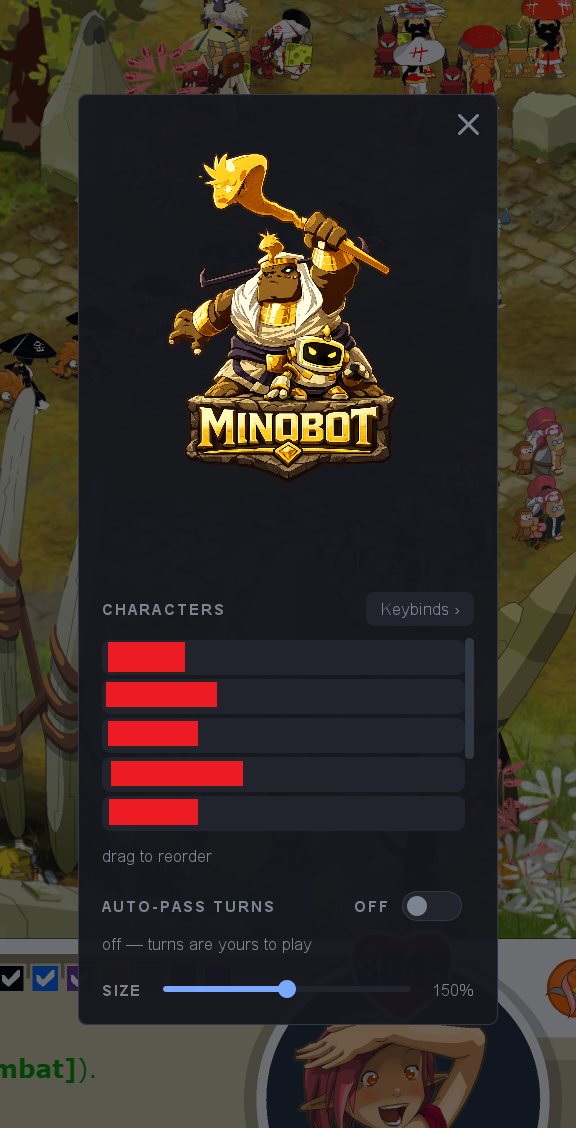
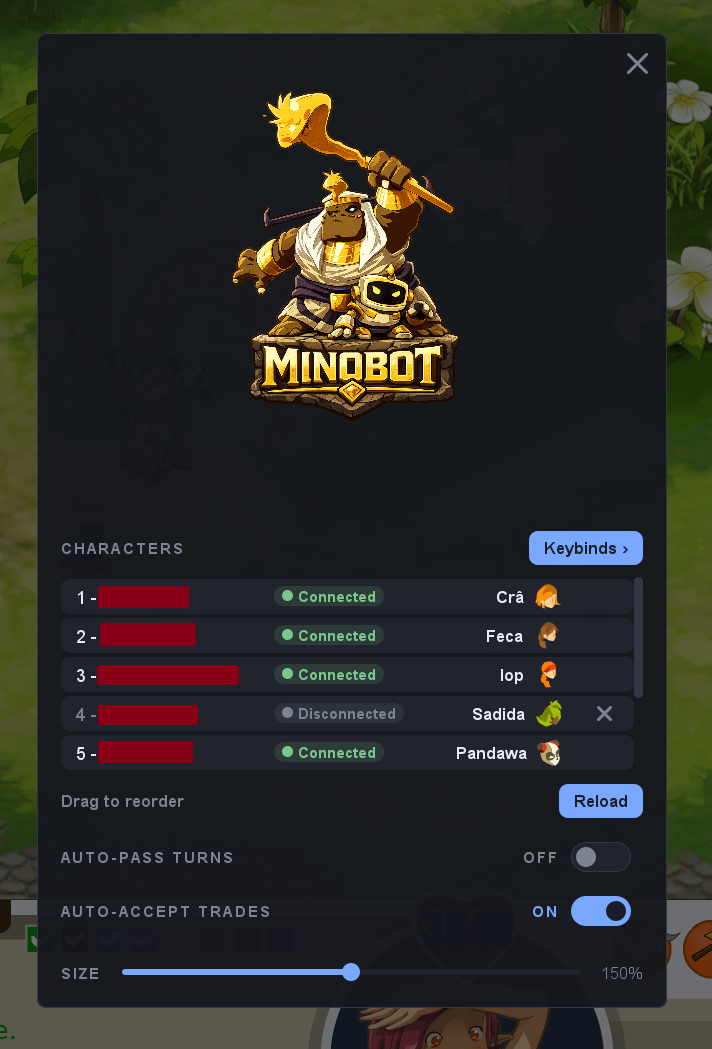
chore: update readme

diff --git a/src/main/java/fr/minobot/ui/overlay/characters/CharacterRow.java b/src/main/java/fr/minobot/ui/overlay/characters/CharacterRow.java
@@ -140,7 +140,7 @@ public final class CharacterRow extends DefaultListCellRenderer {
 
     /**
      * The class in its column, right-aligned against the column's edge: the icon and the class's label
-     * once one is pinned, a muted {@code choose class…} until then.
+     * once one is pinned, a muted {@code pick class…} until then.
      */
     private void paintClassCell(Graphics2D canvas, RowColumns columns) {
         final var height = getHeight();

diff --git a/README.md b/README.md
@@ -75,8 +75,7 @@ Minobot reconnaît que la demande vient d'**un de vos comptes** grâce au nom é
 Si c'est un **autre joueur** qui vous propose un échange, rien n'est accepté à votre place : Minobot se
 contente de **basculer sur la fenêtre concernée**, comme d'habitude, et vous décidez.
 
-**Cette fonction est activée par défaut.** Vous pouvez la couper depuis l'overlay le temps de la session ;
-pour la désactiver durablement, mettez `"auto_accept_trade": false` dans votre `config.json`.
+**Cette fonction est activée par défaut.** Vous pouvez la couper depuis l'overlay le temps de la session.
 
 ### Passer les tours automatiquement — interrupteur dans l'overlay
 
@@ -100,6 +99,25 @@ redémarrage** (comme tous les réglages faits dans l'overlay).
 2. Lancez **`Minobot.exe`**.
 3. C'est tout. Il n'y a rien à installer, pas même Java : tout voyage dans le dossier.
 
+**Important** : Minobot se basant sur le système de notifications Windows, il est **impératif** de les
+   activer.
+1. Aller dans les paramètres Windows et **activer les notifications**.
+
+![windows_settings1.png](assets/windows_settings1.png)
+
+2. Si elles vous dérangent,  **vous pouvez les rendre silencieuses**, en cochant
+   `Masquer le contenu...`
+   
+   Minobot fonctionnera tout pareil.
+
+![windows_settings2.png](assets/windows_settings2.png)
+
+> **Au premier lancement, Windows peut afficher un écran bleu « Windows a protégé votre
+> ordinateur ».** C'est normal : Minobot est un petit logiciel gratuit qui n'est pas encore connu de
+> Windows, alors il se méfie par précaution — ça ne veut pas dire qu'il y a un problème. Cliquez sur
+> **« Informations complémentaires »**, puis sur le bouton **« Exécuter quand même »** qui apparaît.
+> Windows ne vous le redemandera plus.
+
 Une **icône apparaît à côté de l'horloge**, en bas à droite de l'écran : c'est le signe que Minobot
 tourne. Pour l'arrêter, faites un clic droit dessus et choisissez **Quitter**.
 
@@ -108,115 +126,86 @@ tourne. Pour l'arrêter, faites un clic droit dessus et choisissez **Quitter**.
 
 ---
 
-## Configuration
+## L'overlay — votre tableau de bord (`Shift+Espace`)
 
-Au premier lancement, Minobot crée un fichier **`config.json`** juste à côté de `Minobot.exe`. C'est
-le seul fichier que vous aurez à toucher. Ouvrez-le avec le Bloc-notes.
+Placez-vous sur une fenêtre de jeu et appuyez sur **`Shift+Espace`** : un panneau s'affiche par-dessus
+le jeu, au centre, sur un fond assombri. **C'est là que vous réglez tout** — il n'y a aucun fichier à
+ouvrir. Réappuyez sur `Shift+Espace`, ou cliquez sur la **croix** en haut du panneau, pour le refermer.
 
-![initial_config.png](assets/initial_config.png)
+Deux choses à savoir :
 
-### La seule chose vraiment obligatoire : la liste de vos personnages
+- Le panneau **appartient à la fenêtre de jeu** : `Shift+Espace` sur le bureau ou dans un navigateur ne
+  fait rien. Il suit la fenêtre si vous la déplacez.
+- Tant qu'il est ouvert, **il occupe toute la surface du jeu** (vous ne pouvez pas jouer en même temps) :
+  refermez-le pour reprendre la main. C'est un panneau de réglages, pas un mode de jeu.
 
-Remplacez la liste `characters` par **vos personnages, dans l'ordre où vous voulez qu'ils défilent** —
-un par ligne, chacun sous la forme `{ "name": "NomDuPerso" }` :
+Sur le panneau, de haut en bas :
 
-![edited_config.png](assets/edited_config.png)
+### Vos personnages, dans l'ordre
 
-Cet ordre sert à deux choses : le défilement des fenêtres (`X2`) et le rangement de la barre des
-tâches (`F9`).
+Minobot **trouve tout seul vos fenêtres de jeu** et les affiche en liste. **Glissez-les pour les remettre
+dans l'ordre que vous voulez** : c'est ce même ordre qui sert au défilement (`X2`) et au rangement de la
+barre des tâches (`F9`). Vous n'avez rien à écrire nulle part.
 
-**Après chaque modification du fichier, quittez Minobot et relancez-le** pour qu'il en tienne compte.
+### La classe et le sexe de chaque personnage
 
-### Les autres réglages
+Cliquez sur **« pick class… »** en face d'un personnage : une grille des **douze classes** de Dofus
+Retro s'ouvre, avec une bascule **homme / femme** en haut. Choisissez, et l'icône de la classe s'affiche
+à côté du nom — de quoi repérer vos persos d'un coup d'œil.
 
-Tout le reste est facultatif. Voici le fichier au complet — il n'y a rien de caché ailleurs :
+### Connecté, déconnecté, et « oublier » un personnage
 
-```json
-{
-  "log_level": "INFO",
+Chaque ligne porte une **pastille de statut** : verte quand la fenêtre du perso est ouverte, grise quand
+elle ne l'est pas. Un personnage à qui vous avez attribué une classe ou un sexe **reste dans la liste
+même déconnecté** (grisé), pour garder sa place dans l'ordre — pratique quand vous relancez un compte.
+Une **petite croix** sur une ligne grisée le retire définitivement de la liste.
 
-  "multiclick_hotkey": "x1",
-  "multiclick_exclude": [],
-  "reset_windows_hotkey": "shift+x1",
+### Les deux interrupteurs
 
-  "group_invite_hotkey": "F8",
+**Auto-accept trades** et **Auto-pass turns**, les deux fonctions décrites plus haut, s'allument et
+s'éteignent ici d'un clic (un gros ON/OFF).
 
-  "characters": [
-    { "name": "PremierPerso" },
-    { "name": "DeuxiemePerso" },
-    { "name": "TroisiemePerso" }
-  ],
-  "window_cycle_next_hotkey": "x2",
-  "window_cycle_prev_hotkey": "shift+x2",
+### La taille du panneau
 
-  "window_reorder_hotkey": "F9",
+Un **curseur** en bas agrandit ou réduit le panneau. Sur un grand écran, montez-le si le texte vous
+paraît petit.
 
-  "overlay_hotkey": "shift+space",
-  "overlay_scale": 1.5,
+### Réattribuer les touches — le tiroir « Keybinds »
 
-  "auto_pass_turn": false,
-  "auto_accept_trade": true
-}
-```
+Le bouton **`Keybinds ›`** déplie un tiroir sur le côté, où figure **la touche de chaque fonction**. Pour
+en changer une, cliquez dessus puis **appuyez simplement sur la nouvelle touche** — Minobot la capture,
+vous n'avez rien à taper.
 
-| Réglage | À quoi ça sert |
-| --- | --- |
-| `characters` | Vos personnages, dans l'ordre — chacun `{ "name": "..." }`. **Le réglage principal.** Leur classe et leur sexe se choisissent depuis l'overlay ; inutile de les écrire ici. |
-| `multiclick_exclude` | Les personnages à **laisser en dehors** du clic multiple. Exemple : `["Mule", "Marchand"]` — votre mule en mode marchand ne bougera pas. |
-| `overlay_scale` | La taille du panneau (l'overlay, ouvert par `shift+space`), de `1.0` à `2.0`. Sur un grand écran, `1.5` (la valeur d'origine) se lit bien ; montez-la si le texte vous paraît petit. Le curseur en bas du panneau fait la même chose, le temps de la session. |
-| `auto_pass_turn` | Passer automatiquement les tours de combat (`true`/`false`). Se règle surtout depuis l'interrupteur **Auto-pass turns** de l'overlay ; le mettre à `true` ici le démarre déjà activé. |
-| `auto_accept_trade` | Accepter automatiquement les échanges entre vos comptes (`true`/`false`). **Activé par défaut.** Se règle depuis l'interrupteur **Auto-accept trades** de l'overlay le temps de la session ; mettez `false` ici pour le désactiver durablement. |
-| `..._hotkey` | Les touches de chaque fonction. Voir la liste ci-dessous. |
-| `log_level` | Mettez `"DEBUG"` à la place de `"INFO"` si vous devez signaler un problème : Minobot écrira beaucoup plus de détails dans son journal. |
+Quelques touches ne conviennent pas :
 
-Une ligne que vous supprimez du fichier reprend simplement sa valeur d'origine. Un fichier qui ne
-contiendrait que votre liste `characters` fonctionne très bien.
+- **Les lettres et les chiffres ne marchent pas** (`A`, `1`, `Ctrl+S`…). C'est volontaire : ce sont les
+  touches du chat du jeu, un raccourci posé dessus se déclencherait au milieu de vos phrases. Utilisez
+  plutôt les **touches de fonction `F1`–`F12`**, la **barre d'espace**, les **boutons latéraux de la
+  souris** (`X1`/`X2`, sous le pouce), éventuellement avec `Ctrl`, `Shift` ou `Alt`.
+- Vous pouvez aussi poser une fonction sur le **clic gauche, droit ou molette**, mais elle se déclenchera
+  alors à *chacun* de ces clics, partout — ça n'a de sens que pour le clic multiple.
+- **La combinaison la plus précise gagne** : si `X2` et `Shift+X2` servent tous les deux, `X2` maintenu
+  avec Shift ne déclenche que le second, jamais les deux à la fois.
 
-**Pour désactiver une fonction, laissez sa touche vide** : `"group_invite_hotkey": ""` et les
-invitations de groupe ne répondront plus, sans rien casser d'autre.
+> Ce que vous réglez dans l'overlay est **retenu d'une fois sur l'autre** : l'ordre des personnages,
+> leurs classes, vos touches. Seuls la taille du panneau et les deux interrupteurs repartent de zéro à
+> chaque redémarrage.
 
 ---
 
-## Les touches disponibles
+## Réglages avancés (`config.json`) — facultatif
 
-Une touche se compose d'une **touche principale**, éventuellement précédée d'un ou plusieurs
-**modificateurs**, reliés par un `+`. Les majuscules n'ont aucune importance : `shift+x1` et `SHIFT+X1`
-sont identiques.
+Tout ce qui précède se règle dans l'overlay. Il subsiste un fichier **`config.json`**, créé à côté de
+`Minobot.exe` au premier lancement, pour quelques options que l'overlay ne couvre pas. Ouvrez-le avec le
+Bloc-notes ; **après une modification, quittez Minobot et relancez-le** pour qu'il en tienne compte.
 
-**Les touches principales** — vous devez en choisir une dans cette liste, il n'y en a pas d'autres :
-
-| À écrire | La touche correspondante |
+| Réglage | À quoi ça sert |
 | --- | --- |
-| `F1` à `F12` | Les touches de fonction, en haut du clavier. |
-| `space` | La barre d'espace. |
-| `x1` | Le bouton latéral « Précédent » de la souris (sous le pouce). |
-| `x2` | Le bouton latéral « Suivant » de la souris. |
-| `left` | Le **clic gauche** de la souris. |
-| `right` | Le **clic droit** de la souris. |
-| `middle` | Le **clic molette** (appuyer sur la roulette). |
+| `multiclick_exclude` | Les personnages à **laisser en dehors** du clic multiple. Exemple : `["Mule", "Marchand"]` — votre marchand ne bougera pas quand les autres cliquent. |
+| `auto_accept_trade` / `auto_pass_turn` | L'état de départ des deux interrupteurs (`true`/`false`). L'overlay les bascule le temps de la session ; ici vous fixez leur position au démarrage. `auto_accept_trade` vaut `true` par défaut, `auto_pass_turn` vaut `false`. |
+| `log_level` | Mettez `"DEBUG"` à la place de `"INFO"` si vous devez signaler un problème : Minobot écrira beaucoup plus de détails dans son journal. |
 
-**Les modificateurs** — aucun, un, ou plusieurs : `ctrl`, `shift`, `alt`.
-
-Quelques exemples valables :
-
-```json
-"group_invite_hotkey": "F8",
-"multiclick_hotkey": "x1",
-"reset_windows_hotkey": "shift+x1",
-"window_reorder_hotkey": "ctrl+alt+F9"
-```
-
-Trois choses à savoir avant de choisir :
-
-- **Les lettres et les chiffres ne sont pas utilisables.** `a`, `1` ou `ctrl+s` ne fonctionneront pas.
-  C'est volontaire : ce sont les touches avec lesquelles vous écrivez dans le chat du jeu, et un
-  raccourci posé dessus se déclencherait au milieu de vos phrases.
-- **`left`, `right` et `middle` sont les boutons de la souris, pas les flèches du clavier.** Mettre
-  une fonction sur `left`, c'est la déclencher à **chacun de vos clics gauches**, partout. C'est
-  utilisable pour le clic multiple si vous voulez que votre clic lui-même serve de déclencheur, mais
-  c'est le seul cas où ça a du sens.
-- **La combinaison la plus précise gagne.** Si `x2` et `shift+x2` sont tous les deux utilisés, appuyer
-  sur `X2` en maintenant Shift ne déclenche que le second — jamais les deux à la fois.
+Une ligne que vous supprimez du fichier reprend simplement sa valeur d'origine.
 
 ---
 
@@ -228,8 +217,8 @@ souci.
 
 | Symptôme | Ce qu'il faut vérifier |
 | --- | --- |
-| Rien ne se passe quand j'appuie sur une touche | Minobot tourne-t-il ? Cherchez l'icône à côté de l'horloge. Et avez-vous bien **relancé** le logiciel après avoir modifié `config.json` ? |
-| Une seule fonction ne répond plus | Vous avez sans doute écrit une touche que Minobot ne connaît pas. Ouvrez `logs/minobot.log` et cherchez une ligne `Hotkey main key ... is not supported.` : les autres fonctions continuent de tourner, seule celle-là est désactivée. |
+| Rien ne se passe quand j'appuie sur une touche | Minobot tourne-t-il ? Cherchez l'icône à côté de l'horloge. Les réglages faits dans l'overlay s'appliquent tout de suite ; en revanche, si vous avez touché à `config.json`, il faut **relancer** le logiciel. |
+| Une seule fonction ne répond plus | La touche que vous lui avez donnée n'est peut-être pas reconnue. Rouvrez le tiroir **Keybinds** de l'overlay pour la réattribuer. Dans `logs/minobot.log`, une ligne `Hotkey main key ... is not supported.` le confirme : les autres fonctions continuent de tourner, seule celle-là est coupée. |
 | Les fenêtres clignotent en orange | Appuyez sur `Shift+X1`. |
-| Le défilement `X2` saute des personnages | Vérifiez l'orthographe des noms dans `characters`, et souvenez-vous que seules les fenêtres **de l'écran courant** défilent. |
+| Le défilement `X2` saute des personnages | Ouvrez l'overlay pour vérifier l'ordre de vos personnages, et souvenez-vous que seules les fenêtres **de l'écran courant** défilent. |
 | Le fichier `config.json` semble ignoré | Il doit être **à côté de `Minobot.exe`**, et rester un fichier valide : une virgule oubliée suffit à le casser. Dans ce cas Minobot repart sur ses réglages d'origine et le note dans son journal. |

diff --git a/src/main/java/fr/minobot/feature/overlay/CLAUDE.md b/src/main/java/fr/minobot/feature/overlay/CLAUDE.md
@@ -75,7 +75,7 @@ expects a focused window. And why the class picker (below) is an **in-overlay gr
 a popup menu expects the focus too. Neither is a stylistic choice; all three fall out of the line above.
 
 Each character row also carries its **class and sex** (`DofusClass`, the twelve of Dofus Retro, and
-`Sex`, male or female). Until a class is chosen the row shows a muted `choose class…`; a click on it
+`Sex`, male or female). Until a class is chosen the row shows a muted `pick class…`; a click on it
 opens a **modal picker** — a grid of the twelve, drawn over a scrim that dims the panel and catches every
 click, so a mis-click closes the picker and touches nothing else. At the picker's head a **male/female
 toggle** sets the sex: picking a sex records it at once and leaves the picker open, so the class tiles
